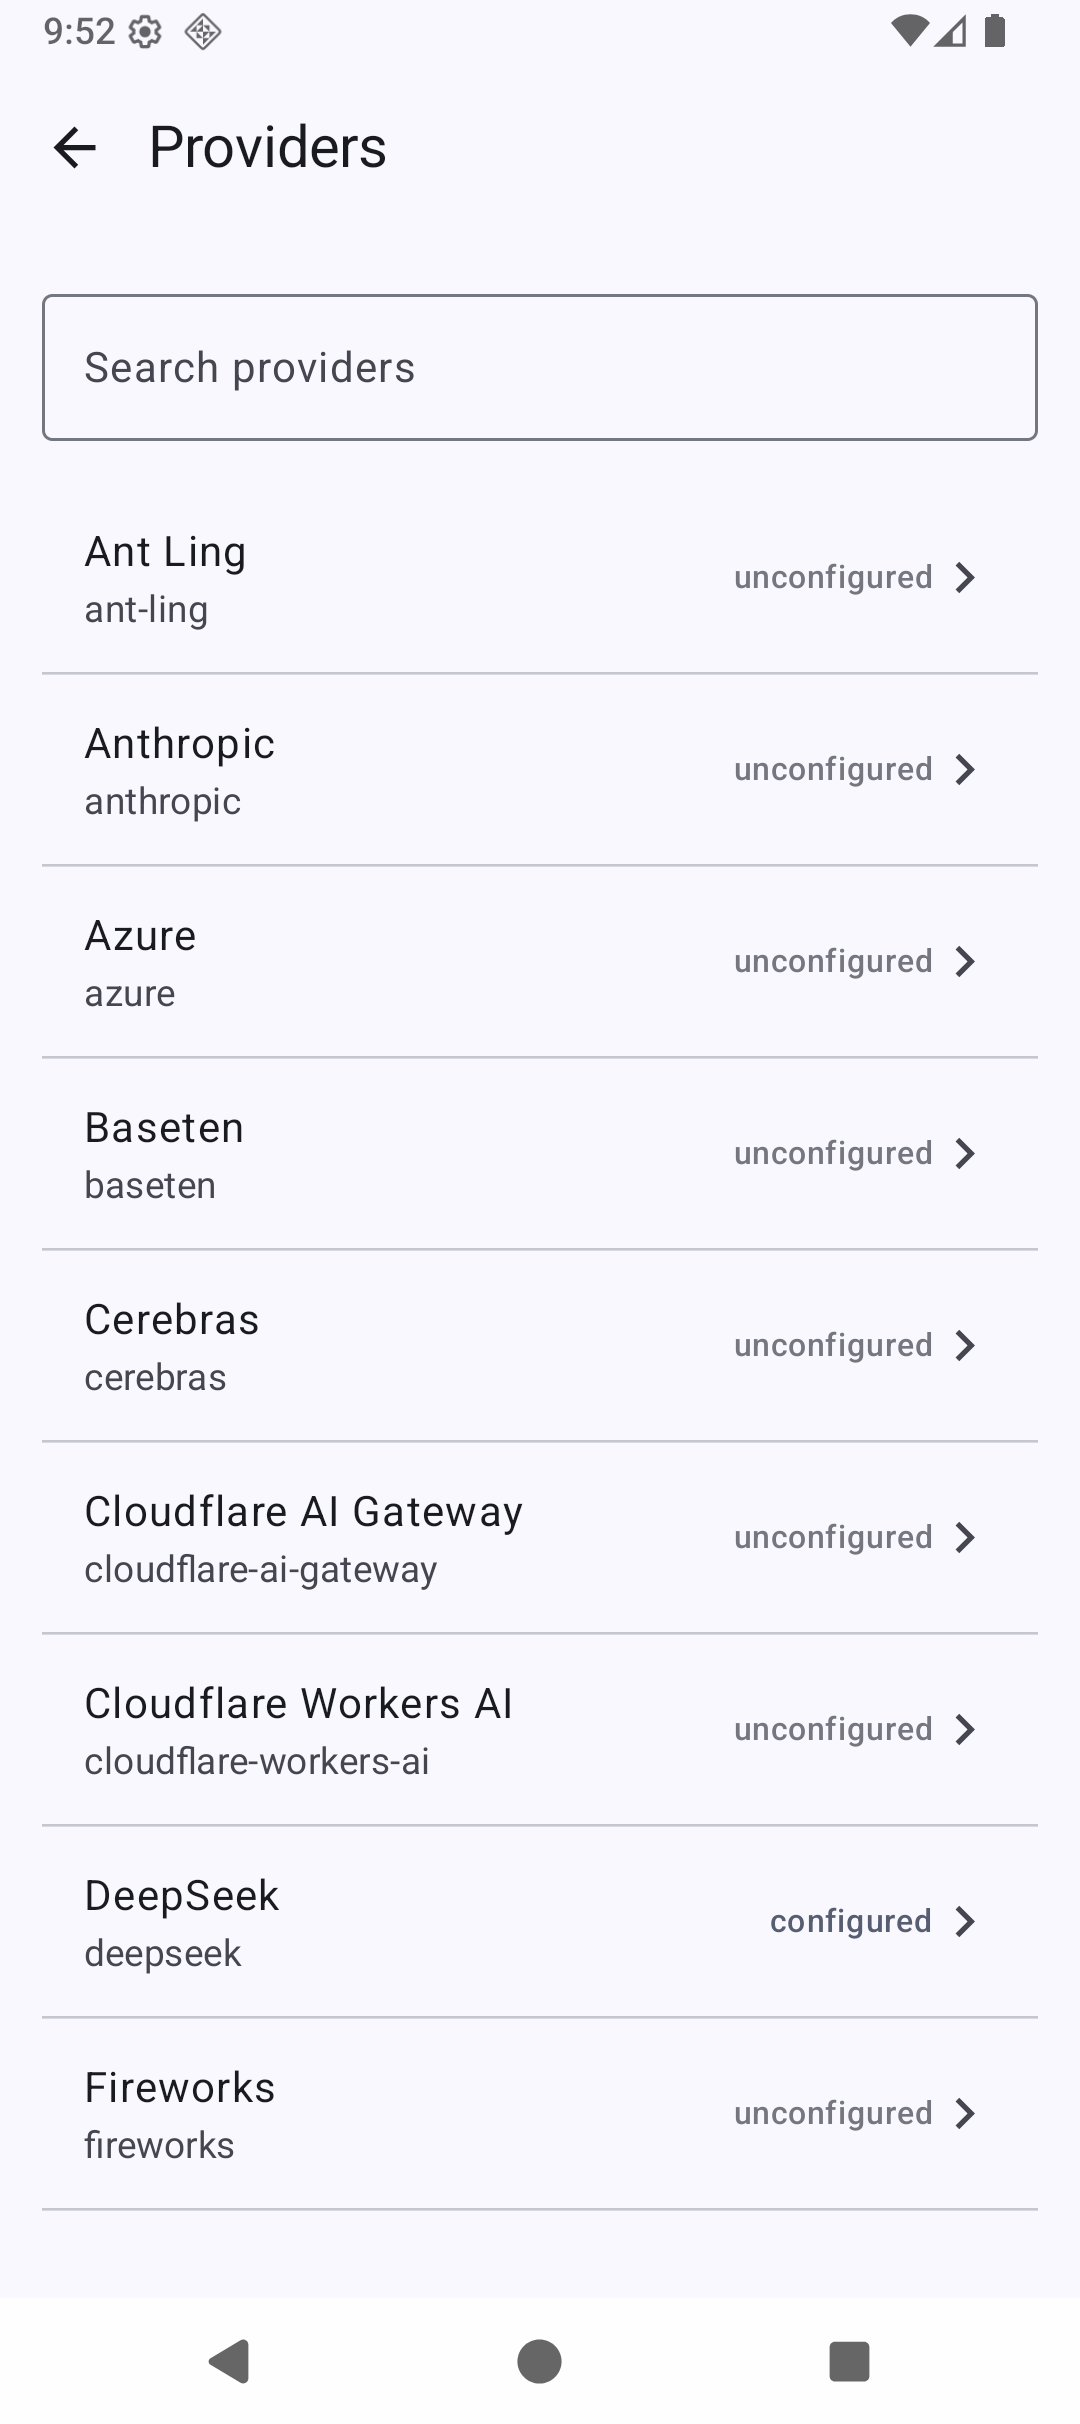
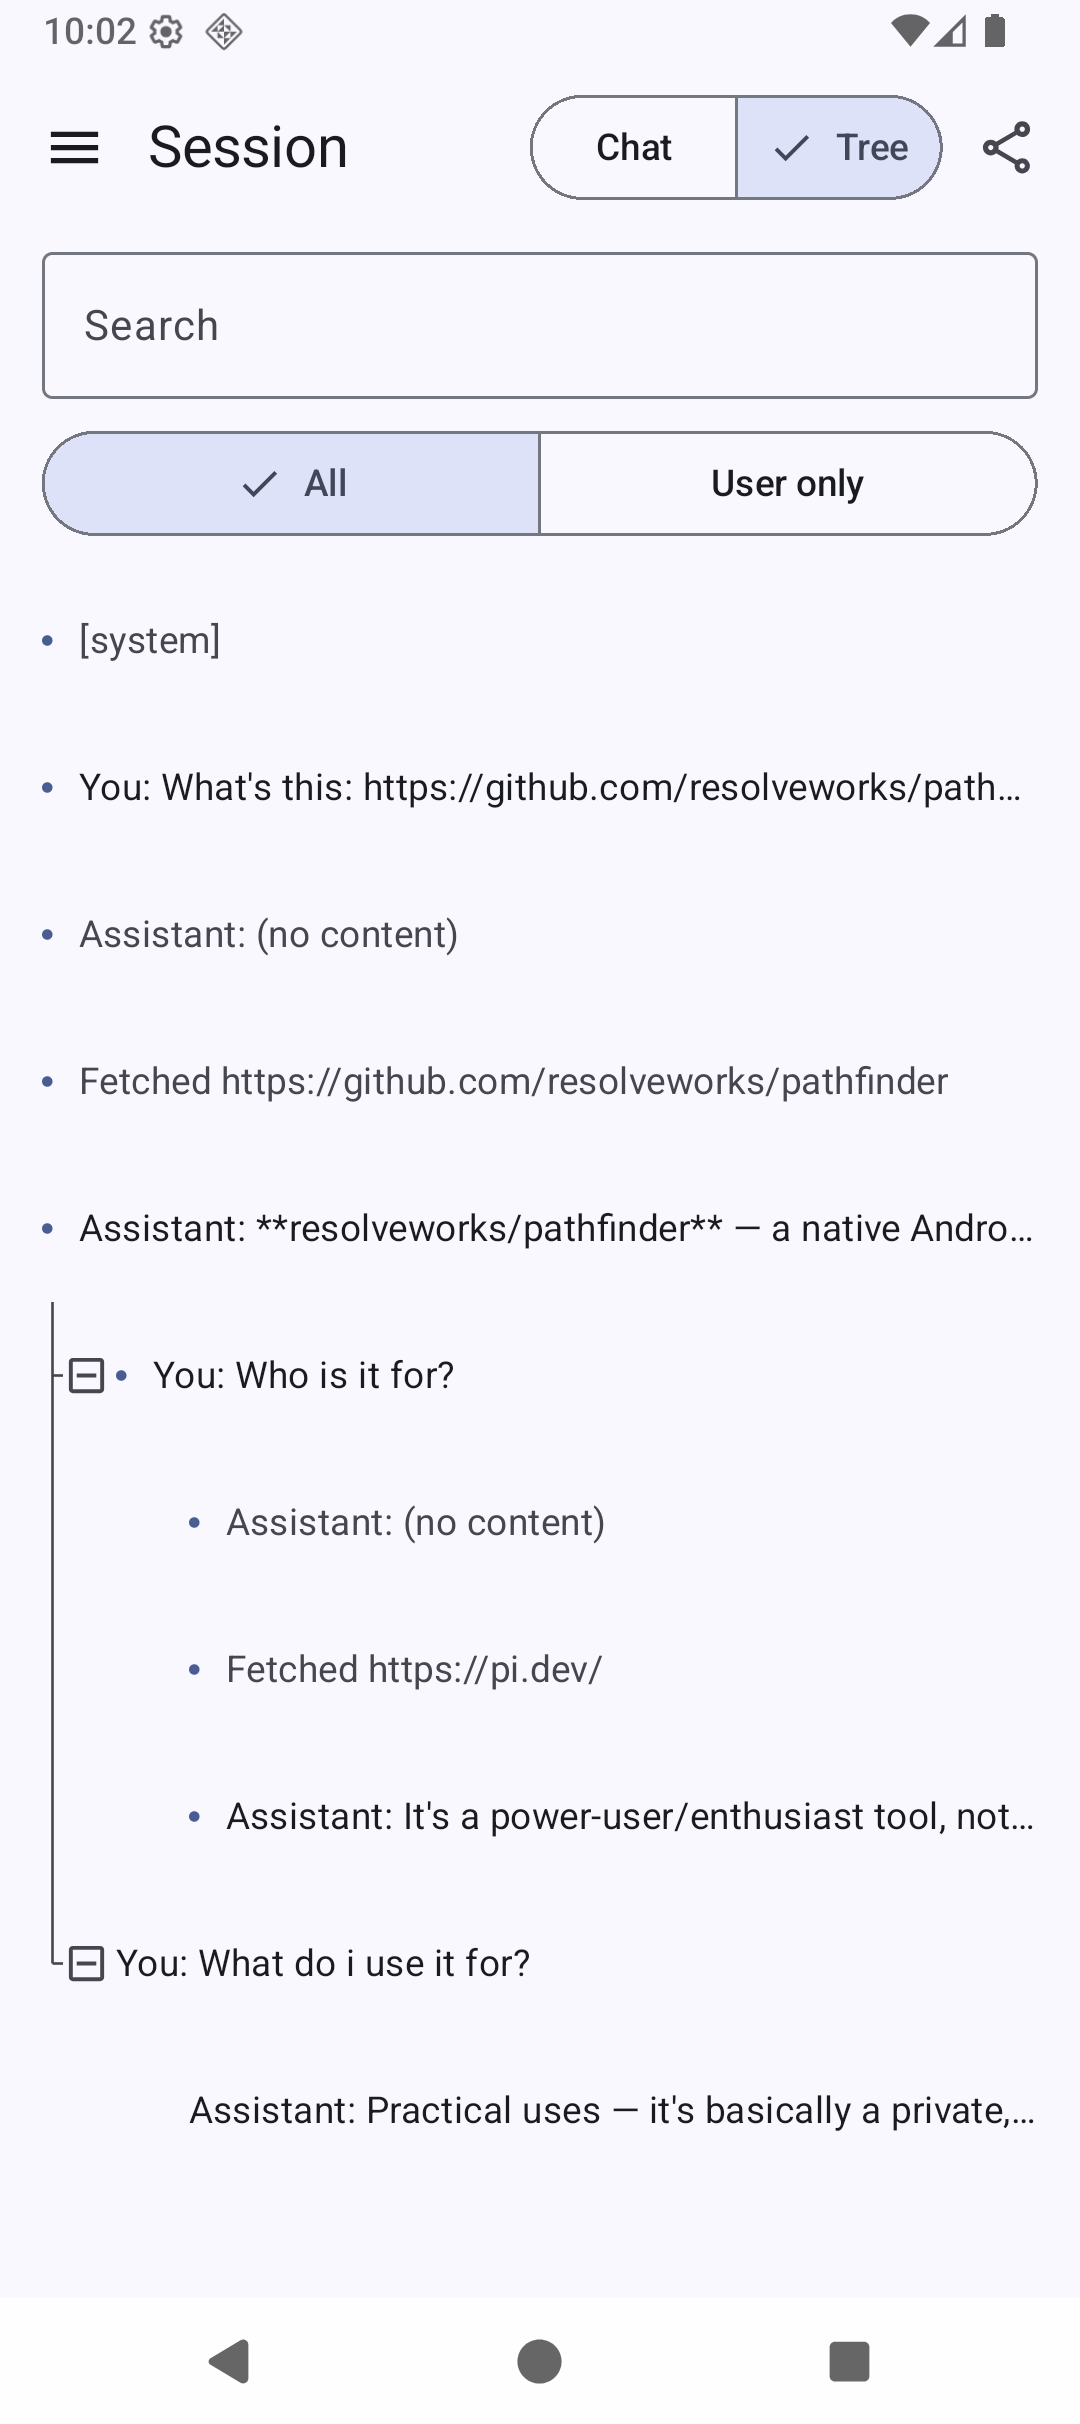
Screenshots: chat, tree, settings; add capture script

diff --git a/src/routes/+page.svelte b/src/routes/+page.svelte
@@ -63,7 +63,7 @@
 			<figure>
 				<img
 					src="/screenshots/01.png"
-					alt="The settings screen: default model and thinking level, providers, web search keys, reasoning display, and system prompt."
+					alt="The chat transcript: the agent's answer to “Who is it for?” — who Pathfinder fits, and who it's not for."
 					width="1080"
 					height="2424"
 				/>
@@ -71,7 +71,7 @@
 			<figure>
 				<img
 					src="/screenshots/02.png"
-					alt="The providers screen: an alphabetical list of providers from Ant Ling to GitHub Copilot, DeepSeek marked configured."
+					alt="The session tree: the conversation's turns and branches, with search and a user-only filter."
 					width="1080"
 					height="2424"
 				/>
@@ -79,15 +79,15 @@
 			<figure>
 				<img
 					src="/screenshots/03.png"
-					alt="The completed answer: what Pathfinder is, its key features, privacy and license."
+					alt="The settings screen: default model and thinking level, providers, web search keys, reasoning display, and system prompt."
 					width="1080"
 					height="2424"
 				/>
 			</figure>
 		</section>
 		<p class="caption">
-			Right: asked “What’s this: github.com/resolveworks/pathfinder”. It fetches the page, notices it is
-			running inside the very harness it is describing, and answers concisely.
+			Left and middle: one session — the agent answering follow-ups about
+			github.com/resolveworks/pathfinder, and the same session's conversation tree.
 		</p>
 
 		<section id="features">

diff --git a/README.md b/README.md
@@ -20,4 +20,5 @@ pnpm check        # svelte-check
 pnpm preview      # serve the built site locally
 ```
 
-Screenshots in `static/screenshots/` are emulator captures of the app.
+Screenshots in `static/screenshots/` are emulator captures of the app; retake them
+with `scripts/screenshots.sh`.

diff --git a/AGENTS.md b/AGENTS.md
@@ -1,0 +1,5 @@
+# usepathfinder.eu
+
+Homepage screenshots in `static/screenshots/` are emulator captures; retake them
+with `scripts/screenshots.sh` (requires adb and a running 1080×2424 emulator
+with Pathfinder installed).
